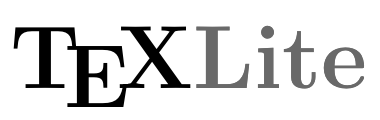
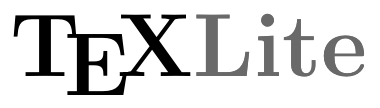
Revert README.md to simplier layout

Changed region(s): [[0.0289, 0.1111, 0.9553, 0.9167], [0.0579, 0.6667, 0.1737, 0.75]]

diff --git a/README.md b/README.md
@@ -1,9 +1,7 @@
 <p align="center">
-    <img src="docs/images/texlite.png" />
-    <h3 align="center">Write good-looking documents without the overhead</h3>
-    <p align="center">
-        <img src="https://travis-ci.org/lucrae/texlite.svg?branch=master" />
-    </p>
+  <img src="docs/images/texlite.png" />
 </p>
 
-TeXLite is an easy-to-use open-source tool for writing standard LaTeX/TeX documents in clean, Markdown-style syntax. With TeXLite, it's easy to write good-looking documents without the overhead of complex typesetting.
+[![Build Status](https://travis-ci.org/lucrae/texlite.svg?branch=master)](https://travis-ci.org/lucrae/texlite)
+
+TeXLite is an easy-to-use open-source tool for writing standard LaTeX/TeX documents in clean, Markdown-style syntax. With TeXLite, it's easy to write **good-looking documents with minimal overhead**.
